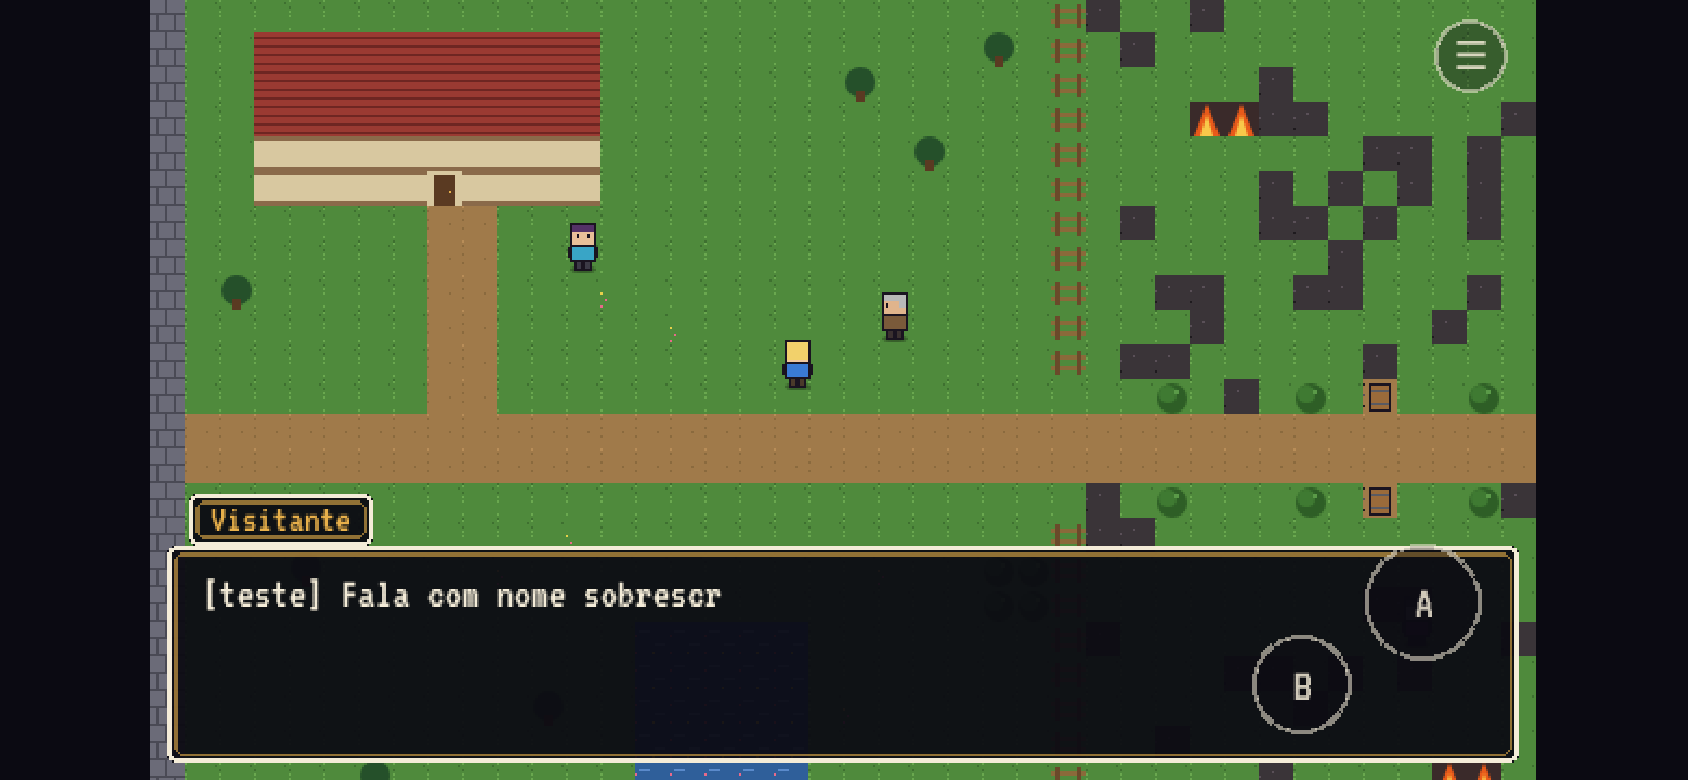
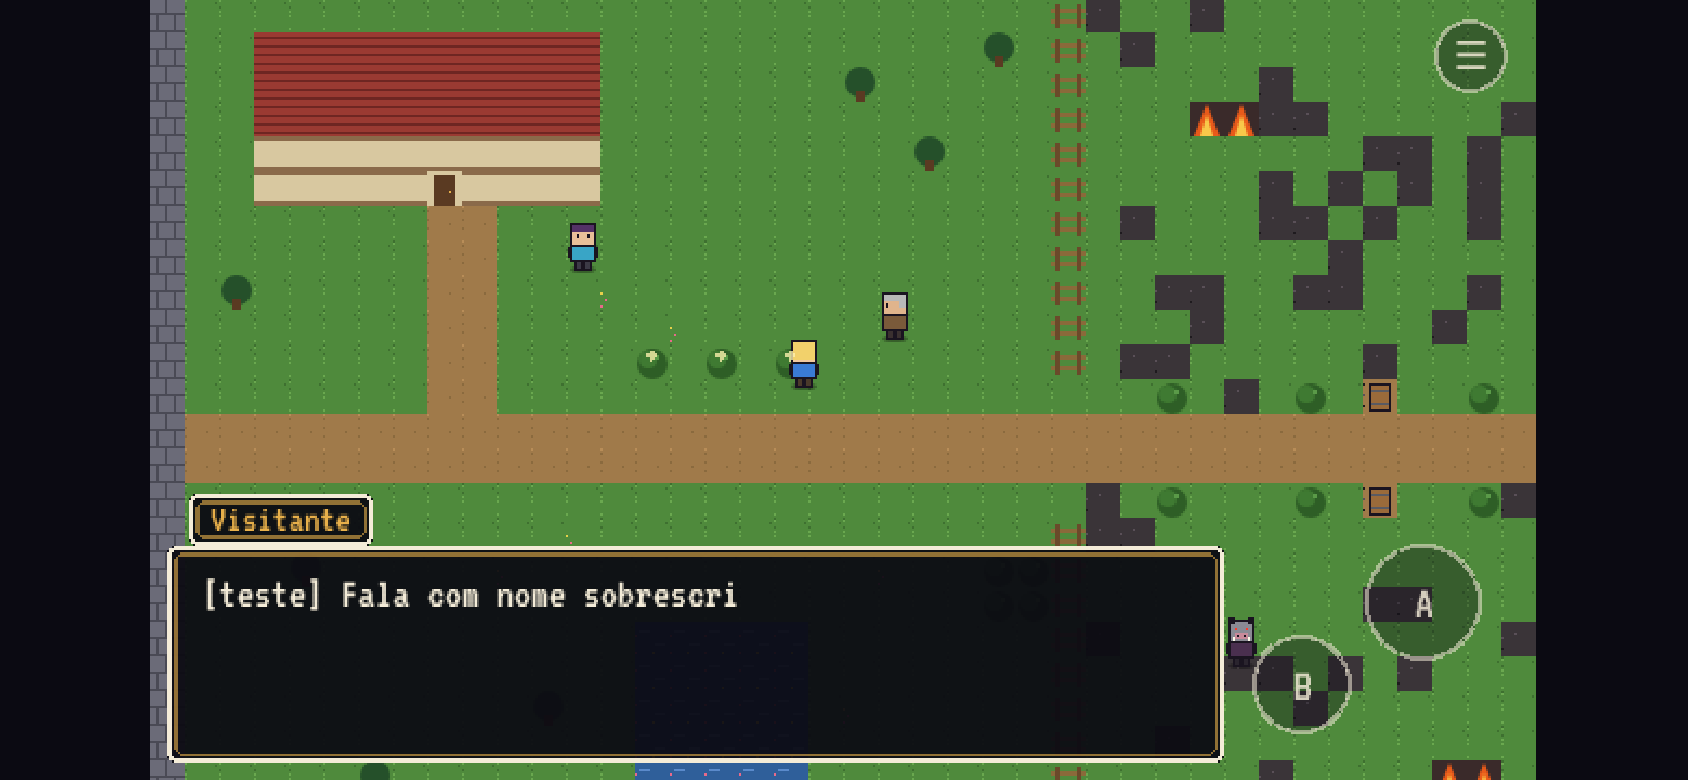
Teste de navegador ampliado (casa, acentos, colheita, atividade, túnel, salvar e recarregar), interação mais tolerante, capturas e status
Claude-Session: https://claude.ai/code/session_01XuAwfF2C4nD4u4ctbMZZzt

Changed region(s): [[0.7085, 0.6769, 0.9242, 0.9846], [0.3697, 0.4308, 0.4929, 0.4923]]

diff --git a/src/scenes/WorldScene.ts b/src/scenes/WorldScene.ts
@@ -525,7 +525,9 @@ export class WorldScene extends Phaser.Scene {
       }
     }
     // Examináveis / atividades / gatilhos de interação — o mais próximo do ponto à frente
-    const here = (z: Zone) => contains(z.rect, px, py) || contains(z.rect, this.player.x, this.player.y - 3);
+    // Área um pouco maior que o objeto: não exige alinhamento ao pixel.
+    const grown = (r: Rect): Rect => ({ x: r.x - 4, y: r.y - 4, w: r.w + 8, h: r.h + 8 });
+    const here = (z: Zone) => contains(grown(z.rect), px, py) || contains(z.rect, this.player.x, this.player.y - 3);
     for (const z of this.inspects) {
       if (here(z) && this.useInspect(z)) return true;
     }

diff --git a/docs/status/engine.md b/docs/status/engine.md
@@ -33,6 +33,50 @@ Branch: `claude/triskelion-engine`
   cutscene completa com troca de mapa, esconderijo, ser visto e voltar ao checkpoint, botão MENU — tudo OK.
   Capturas em `docs/tecnico/capturas/`.
 
+## Ciclo 2 (pedidos da coordenação — todos atendidos)
+
+- **Save (crítico)**: versão 3, gravação atômica (`.tmp` → `.bak` → principal), leitura com queda para a
+  última cópia válida; salvar a qualquer momento pelo menu (3 espaços, bloqueado em cutscene); autosave na
+  troca de mapa, em checkpoint, no início e no fim de cutscenes, após atividades e a cada 60 s de exploração;
+  **save de retomada** em `visibilitychange`/`pagehide` (+`beforeunload`/`freeze` de reforço) e
+  "Retomar de onde parou" no título (local + horário). Retomada no meio de cutscene volta ao início dela
+  (estado de antes + replay do roteiro). Exportar/importar (arquivo ou texto) em Título → "Backup do save".
+- **Dificuldade**: `state.difficulty` no save (`tranquila` padrão); sem opção na tela.
+- **Inventário, moedas e atributos** tipados no save (`state`), helpers em `session`; sem interface.
+- **Atividades**: `src/systems/activity/` — objeto Tiled com `activity` (+ `param_*`) ou passo `activity`
+  abre cena registrada; resultado (flags, moedas, itens, atributos, recorde) aplicado e autosalvo.
+  Exemplo: `TestActivityScene` / objeto `altar_teste` em `teste2`.
+- **Interiores**: portas com `entry` ou `return: true` (volta ao ponto de onde entrou), porta trancada
+  (`locked_if` + `locked_dialogue`), examináveis (`examinar`, com `alt_dialogue`/`alt_if`, `glow`, `once`),
+  moradores, fade. Casa de teste `teste_casa` (dois cômodos). Padrão documentado em MAPAS.md.
+- **UI**: com controles de toque a caixa de diálogo termina antes dos botões A/B; toque em qualquer lugar da
+  caixa avança; estilos de `narrador`, `tutorial` ("Dica") e pensamento; nomes com acento via
+  `content/characters.json`; Phaser em chunk próprio (`phaser-*.js` 1,46 MB + jogo 161 kB).
+- **Prólogo**: os 48 roteiros de `origin/claude/triskelion-narrativa` validam e rodam até o fim
+  (`tests/prologo-compat.test.ts`, cópia em `tests/fixtures/prologo/`, atualizar com
+  `scripts/atualizar-fixture-prologo.sh`). Suporte a `anim` (toca se houver arte, senão ignora), `title`,
+  falantes `narrador`/`tutorial` e todos os campos do fim de `10_prologo_roteiro.md` (via aliases, ver DIALOGO.md).
+  Contador de colheita genérico (`counter`/`counter_goal`/`counter_flag`), máscara de escuridão com
+  círculo de luz (`escuro`/`luz_raio` + passo `light`), gatilhos `activation: load`, diálogo condicional de
+  NPC (`alt_dialogue`/`alt_if`), roteiros encadeados (`"a,b,c"`), patrulha por marcadores `<rota>_pN`.
+- **Testes**: 174 no Vitest. Teste de navegador ampliado (32 verificações, todas OK): porta trancada, casa,
+  acentos na fonte e nos nomes, caixa x botões, colheita, atividade, túnel escuro, salvar pelo menu e
+  **recarregar a página e voltar à mesma posição**.
+
+### Incompatibilidades com o prólogo
+
+Nenhuma bloqueante. Observações para as outras frentes:
+- `anim`: as poses (`colher`, `ajoelhar`, `encolhido`, `colar_brilho`...) só aparecem quando a arte entregar
+  animações com a chave `<sprite>:<anim>` (ver ARQUITETURA.md); até lá são ignoradas.
+- Emote `suor` usa o emoji 💧 (fonte do sistema); a arte pode trocar por um ícone.
+- `content/characters.json` foi criado pelo motor só com os nomes do prólogo — **a narrativa é dona do arquivo**.
+- Para a sessão de mapas: colheita = 5 objetos `examinar` com `dialogue: prologo_03_pe_de_cafe`,
+  `counter: prologo.colheita`, `counter_goal: 5`, `counter_flag: prologo.colheita_completa`, `glow: true`;
+  Zefa = `npc` com `dialogue: prologo_04_zefa`, `alt_dialogue: prologo_06_colheita_fim`, `alt_if: prologo.colheita_completa`;
+  `gatilho_casa` com `dialogue: "prologo_12_pai_confissao,prologo_13_cura,prologo_14_promessa"`;
+  túnel com `escuro: true`; porta da casa de manhã com `locked_if: "!prologo.cafe_com_pai"` e
+  `locked_dialogue: prologo_00c_porta_sem_cafe`.
+
 ## Decisões
 
 - **Senha**: `VITE_GAME_PASSWORD` é lida no `vite.config.ts`, que embute só o **SHA-256** (o texto não vai
@@ -58,8 +102,7 @@ Branch: `claude/triskelion-engine`
 
 ## Pendente / próximos passos
 
-- Batalha por turnos (frente própria), inventário, HUD de exploração.
-- Bundle de 1,6 MB (Phaser inteiro); dá para separar o Phaser em chunk próprio se o carregamento pesar.
+- Batalha por turnos (frente própria), interface de inventário/loja, HUD de exploração.
 - Iluminação/efeitos da vila em chamas (partículas de fogo, fumaça) quando houver arte.
 - Pathfinding nos `move` (hoje é linha reta; use marcadores intermediários).
 - Testar em iPhone/Android reais (só emulado no Chromium).
